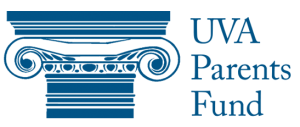
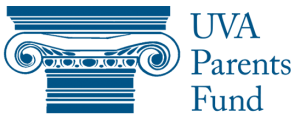
updated site sponsors

diff --git a/tcf_website/templates/about/history.html b/tcf_website/templates/about/history.html
@@ -34,8 +34,9 @@
         Our sponsors help us cover server costs from the large amount of traffic that we get. Their help has allowed the site to stay up and running continuously as we keep developing new features.
     </p>
   </div>
-  <div class="d-flex justify-content-center">
+  <div class="d-flex justify-content-around">
     <img src="{% static 'about/parents_fund.png' %}"/>
+    <img src="{% static 'about/StudCo_Logo.png' %}"/>
   </div>
 </section>
 
